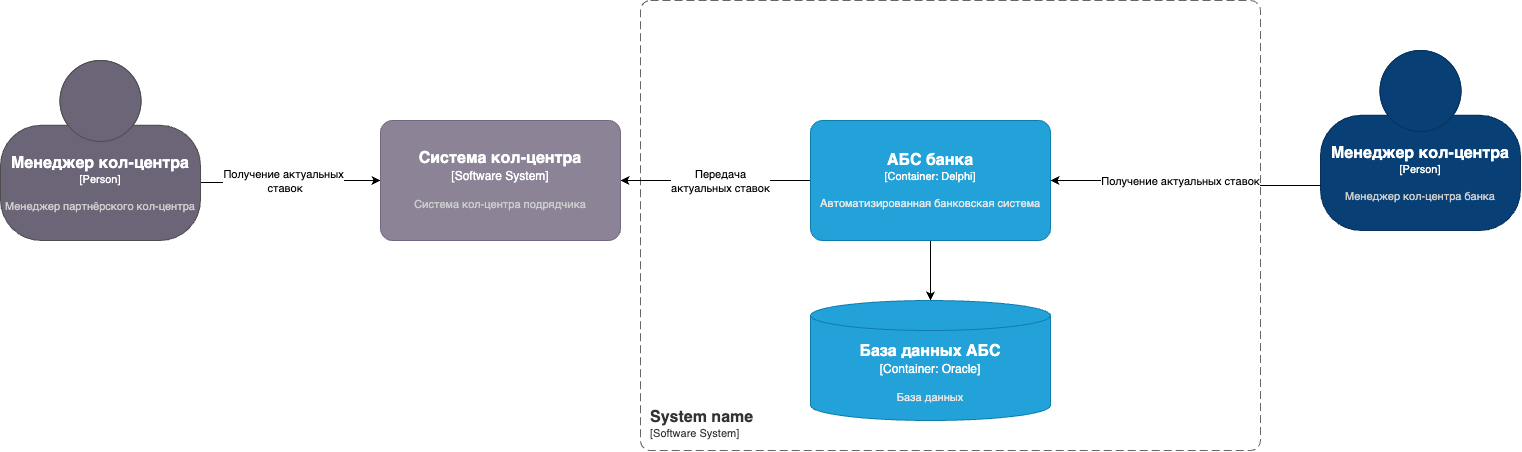
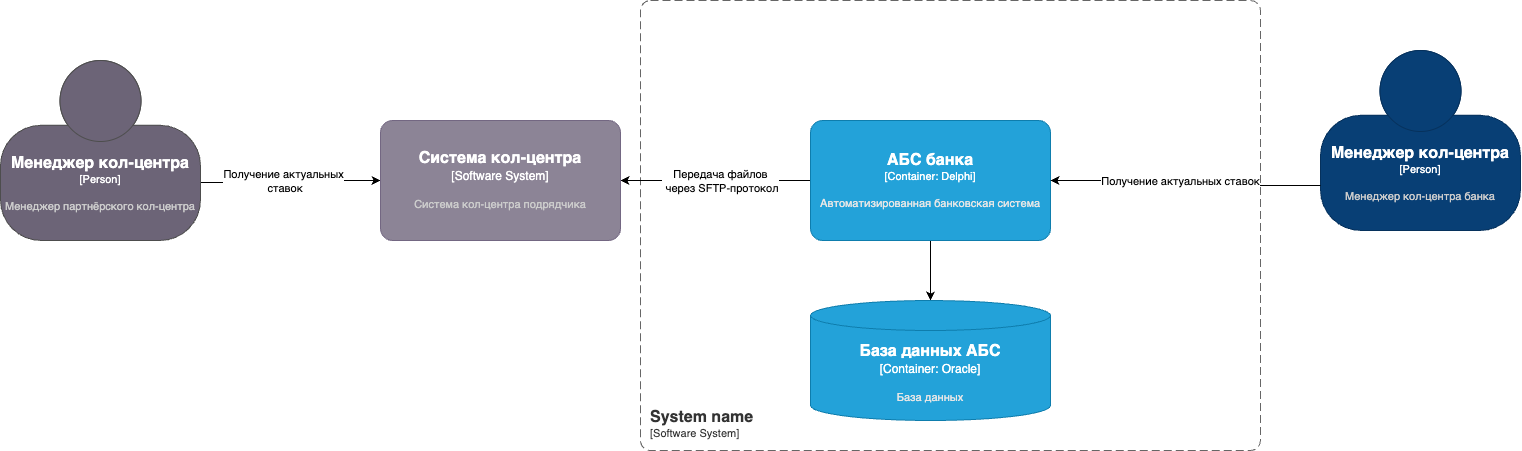
review fix

diff --git a/Task2/FURPS.md b/Task2/FURPS.md
@@ -18,7 +18,7 @@
 | R1  | Предусмотреть равномерное горизонтальное масштабирование и распределение запросов между серверами, приложениями и ЦОД             |                                                                                             |
 | R2  | Cервисы должны работать 24/7 и быть доступны в 99,9% случаев                                                                      |                                                                                             |
 | P   | Производительность (Performance)                                                                                                  |                                                                                             |
-| P1  | Отклик по всем операциям должен быть максимально быстрым и занимать миллисекунды                                                  |                                                                                             |
+| P1  | Отклик по всем операциям должен не превышать 500мс                                                                                |                                                                                             |
 | S   | Поддерживаемость (Supportability)                                                                                                 |                                                                                             |
 | S1  | Использовать технологии, которые уже есть в банке                                                                                 |                                                                                             |
 | +R  | + Ограничения (Restricitions)                                                                                                     |                                                                                             |

diff --git a/Task3/ADR.md b/Task3/ADR.md
@@ -11,12 +11,12 @@
 |   4   | Менеджер бэк-офиса, АБС, СМС-шлюз, клиент          | Согласование заявки на депозит  | Клиент подает заявку на открытие депозита указав счет и сумму депозита                                     |
 ### <a name="_u8xz25hbrgql"></a>**Нефункциональные требования**
 
-| **№** | **Требование**                                                                   |
-|:-----:|:---------------------------------------------------------------------------------|
-|   1   | Cервисы должны работать 24/7 и быть доступны в 99,9% случаев                     |
-|   2   | Отклик по всем операциям должен быть максимально быстрым и занимать миллисекунды |
-|   3   | Данные необходимо защищать с помощью механизма шифрования трафика                |
-|   4   | Использовать технологии, которые уже есть в банке                                |
+| **№** | **Требование**                                                                           |
+|:-----:|:-----------------------------------------------------------------------------------------|
+|   1   | Cервисы должны работать 24/7 и быть доступны в 99,9% случаев                             |
+|   2   | Отклик по всем операциям должен занимать не более 500мс                                  |
+|   3   | Данные необходимо защищать с помощью механизма шифрования трафика, использовать TLS 1.2+ |
+|   4   | Использовать технологии, которые уже есть в банке                                        |
 ### <a name="_qmphm5d6rvi3"></a>**Решение**
 ![context.drawio](context.drawio)
 ![containers.png](containers.png)

diff --git a/Task4/ADR.md b/Task4/ADR.md
@@ -8,11 +8,11 @@
 |   1   |Менеджер кол-центра, сайт для бэк-офиса|Возможность для менеджера кол-центра получать список ставок по депозитам||
 |   2   |AБС, система кол-центра подрядчика|Возможность передавать актуальные ставки по депозитам в систему кол-центра подрядчика||
 ### <a name="_u8xz25hbrgql"></a>**Нефункциональные требования**
-| **№** | **Требование**      |
-|:-----:|:--------------------|
-|   1   | Защита данных       |
-|   2   | Надежность доставки |
-|   2   | Доступность данных  |
+| **№** | **Требование**                                                                                                                                 |
+|:-----:|:-----------------------------------------------------------------------------------------------------------------------------------------------|
+|   1   | Необходимо шифровать трафик при передаче с помощью TLS 1.2+ и при хранении в части персональных данных согласно 152-ФЗ с помощью алгоритма AES |
+|   2   | Обеспечить надежность доставки, предусмотреть возможность повторных попыток и очередей при ошибках или недоступности сервера партнера          |
+|   2   | Высокая доступность передачи данных (99,9%).                                                                                                   |
 ### <a name="_qmphm5d6rvi3"></a>**Решение**
 Передача файлов через SFTP-протокол
 ![context.png](context.png)
